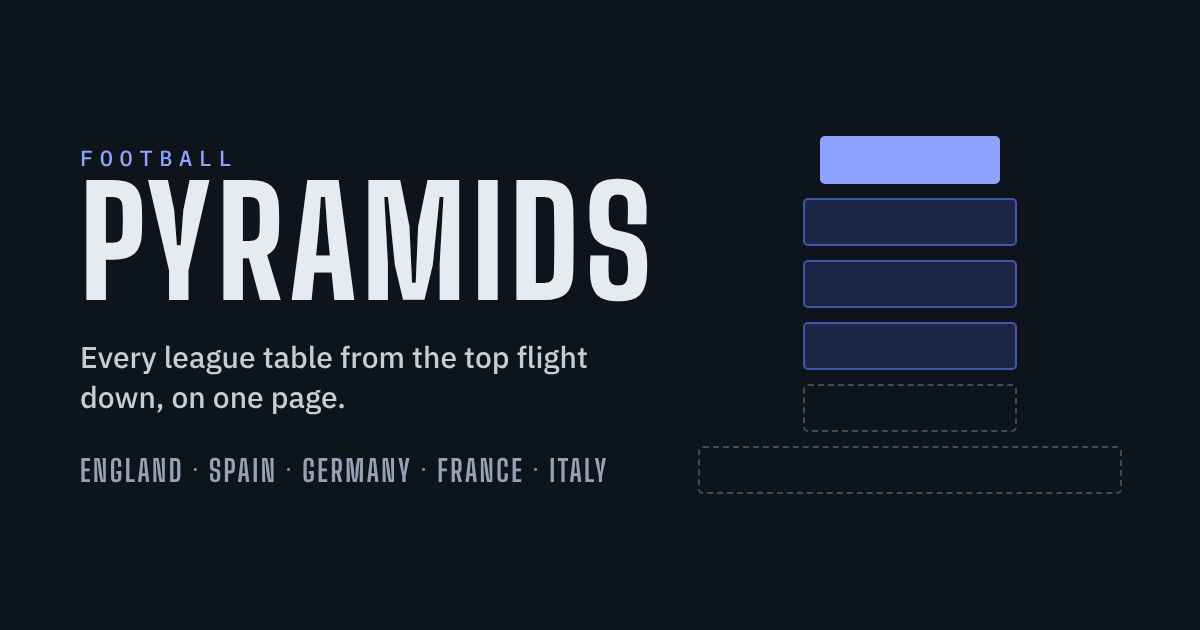
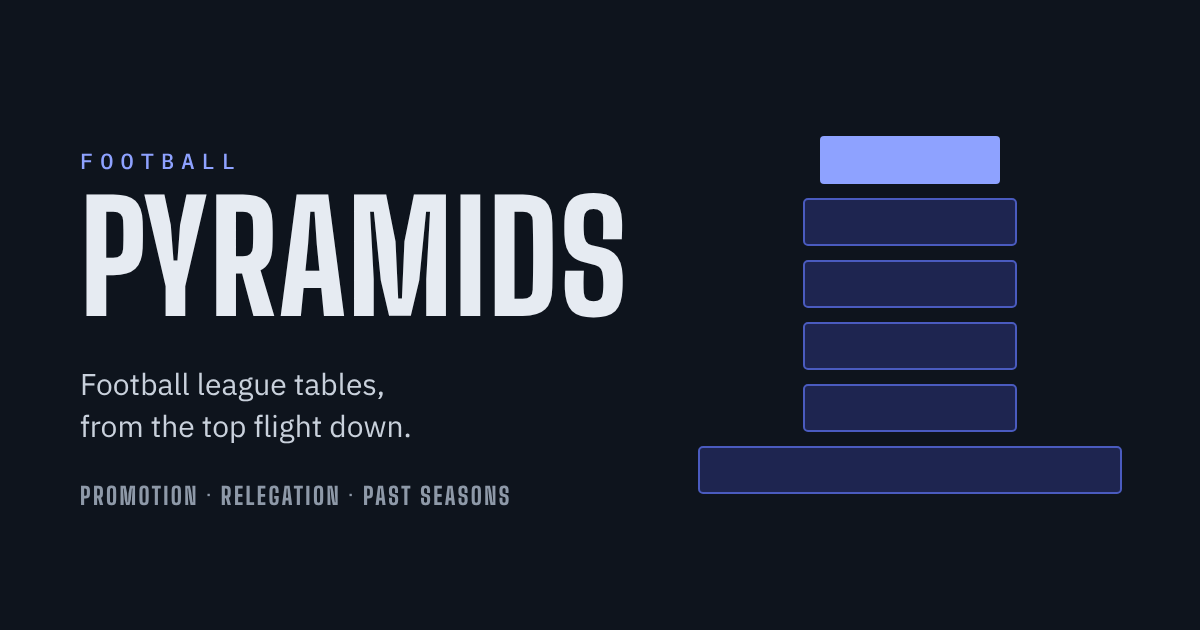
Replace absolute coverage claims and fake-precision timestamps
The hero, home title and share image claimed every league and each
country's whole pyramid, which the data doesn't support for every
country. Standings dates from API-Football are dates sent as midnight
UTC, so the stamp showed an invented 01:00 time; show the date only and
say 'as of' rather than 'updated'.

Claude-Session: https://claude.ai/code/session_01QfynSK2SLwWEuqTiNnkS7y

diff --git a/assets/render.js b/assets/render.js
@@ -25,10 +25,14 @@
   function range(z) { return z.from === z.to ? ord(z.from) : z.from + "–" + z.to; }
   function gd(r) { var d = r.gf - r.ga; return d > 0 ? "+" + d : d < 0 ? "−" + Math.abs(d) : "0"; }
 
-  // "2026-10-21" is a date only; anything longer carries a time.
+  // "2026-10-21" is a date only; anything longer carries a time. API-Football's standings stamp is a date sent as
+  // midnight UTC ("2026-10-21T00:00:00.000Z"), so that counts as a date only too: showing it as "01:00" would claim a
+  // time nobody recorded.
+  function isDateOnly(iso) { return /^\d{4}-\d{2}-\d{2}(T00:00(:00(\.0+)?)?(Z|\+00:00))?$/.test(String(iso || "")); }
   function ukTime(iso) {
     if (!iso) return "";
-    var dateOnly = /^\d{4}-\d{2}-\d{2}$/.test(iso);
+    var dateOnly = isDateOnly(iso);
+    if (dateOnly) iso = String(iso).slice(0, 10);
     try {
       var opts = { timeZone: "Europe/London", day: "numeric", month: "short" };
       if (!dateOnly) { opts.hour = "2-digit"; opts.minute = "2-digit"; opts.hour12 = false; }
@@ -224,10 +228,10 @@
   function tierHTML(lg, opts) {
     opts = opts || {};
     var grouped = !!(lg.groups && lg.groups.length);
-    var meta = clubCount(lg) + " clubs · " + (lg.final ? "final table" : lg.asItStands ? "as it stands" : "updated " + ukTime(lg.updated));
+    var meta = clubCount(lg) + " clubs · " + (lg.final ? "final table" : lg.asItStands ? "as it stands" : "as of " + ukTime(lg.updated));
     var body = grouped
       ? lg.groups.map(function (g) {
-          var stamp = g.updated && g.updated !== lg.updated ? "updated " + ukTime(g.updated) : "";
+          var stamp = g.updated && g.updated !== lg.updated ? "as of " + ukTime(g.updated) : "";
           return '<div class="group"><div class="group-head"><h3>' + esc(g.name) + "</h3>" +
             (stamp ? "<span>" + stamp + "</span>" : "") + "</div>" +
             tableHTML(lg, g.rows, lg.name + ", " + g.name) + "</div>";
@@ -236,7 +240,7 @@
     if (grouped) {
       var dates = lg.groups.map(function (g) { return g.updated || lg.updated; });
       var newest = dates.slice().sort().pop();
-      meta = clubCount(lg) + " clubs in " + lg.groups.length + " groups · " + (lg.final ? "final tables" : lg.asItStands ? "as they stand" : "updated " + ukTime(newest));
+      meta = clubCount(lg) + " clubs in " + lg.groups.length + " groups · " + (lg.final ? "final tables" : lg.asItStands ? "as they stand" : "as of " + ukTime(newest));
     }
     return '<section class="tier" id="' + esc(lg.id) + '" aria-labelledby="h-' + esc(lg.id) + '">' +
       '<header class="tier-head"><p class="tier-num">' + esc(opts.eyebrow || "Tier " + lg.tier) + "</p>" +
@@ -261,9 +265,12 @@
     if (liveCount) return '<p class="stamp live now" id="stamp"><span class="dot"></span><span>' + liveCount + " game" + (liveCount === 1 ? "" : "s") +
       " live · tables show scores as they stand</span></p>";
     if (mode === "final") return '<p class="stamp final" id="stamp"><span class="dot"></span><span>Final tables</span></p>';
+    // The date is when the newest table last changed (in practice its latest matchday), not when the site last
+    // checked: a quiet midweek keeps an older date even though the feed is working.
     var live = mode === "live";
     return '<p class="stamp' + (live ? " live" : "") + '" id="stamp"><span class="dot"></span><span>' +
-      (live ? "Live · updated " : "Sample snapshot · standings as of ") + ukTime(updated) + " UK</span></p>";
+      (live ? "Standings as of " : "Sample snapshot · standings as of ") + ukTime(updated) + (isDateOnly(updated) ? "" : " UK") +
+      (live ? " · checked through the day" : "") + "</span></p>";
   }
 
   var INLINE_AD = '<div class="ad ad-inline"><span class="ad-tag">Advertisement</span>' +
@@ -449,9 +456,10 @@
     var html =
       '<section class="intro hero" aria-labelledby="intro-h">' +
       '<p class="eyebrow">Football Pyramids · ' + esc(countries[0].season) + "</p>" +
-      '<h1 id="intro-h">Every league table, top to bottom.</h1>' +
+      '<h1 id="intro-h">Football league tables, from the top flight down.</h1>' +
       '<p class="lede">' + all.length + " countries, " + nLeagues + " leagues and " + nClubs.toLocaleString("en-GB") +
-      " clubs. Each country’s whole football pyramid on one page, from the top flight down, with live scores on match days.</p>" +
+      " clubs. Each country’s divisions sit on one page in pyramid order, with the promotion and relegation places that connect them. " +
+      "Fixtures, past seasons and live scores on match days.</p>" +
       stampHTML(live ? "live" : "snapshot", newest, countries.reduce(function (n, c) { return n + (c.liveCount || 0); }, 0)) +
       "</section>" +
       stripHTML(opts.live, opts.europe ? all.concat([summary(opts.europe)]) : all, base, suffix, names) +
